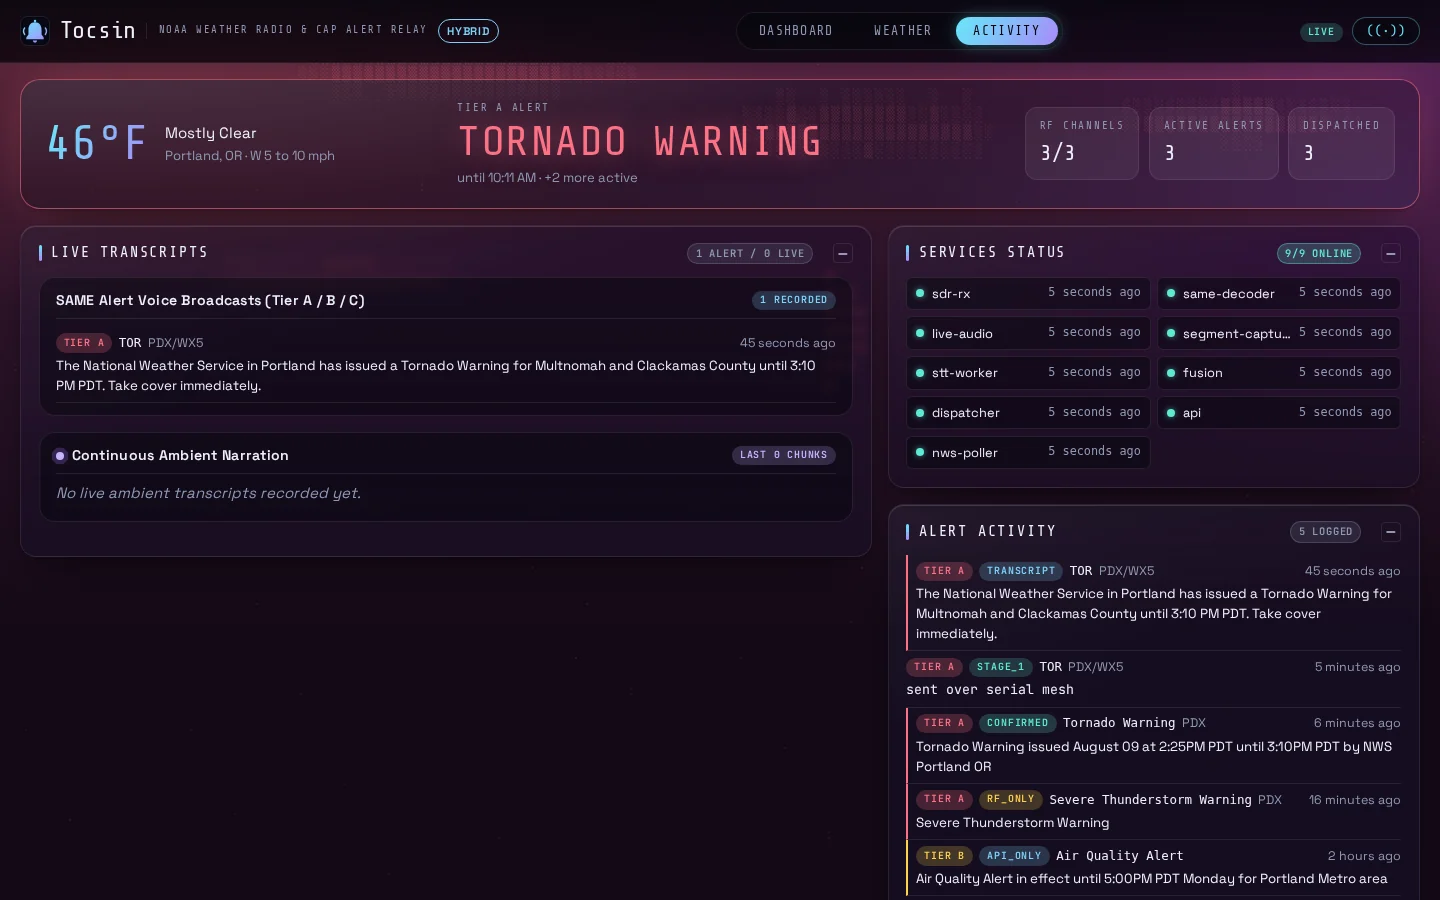
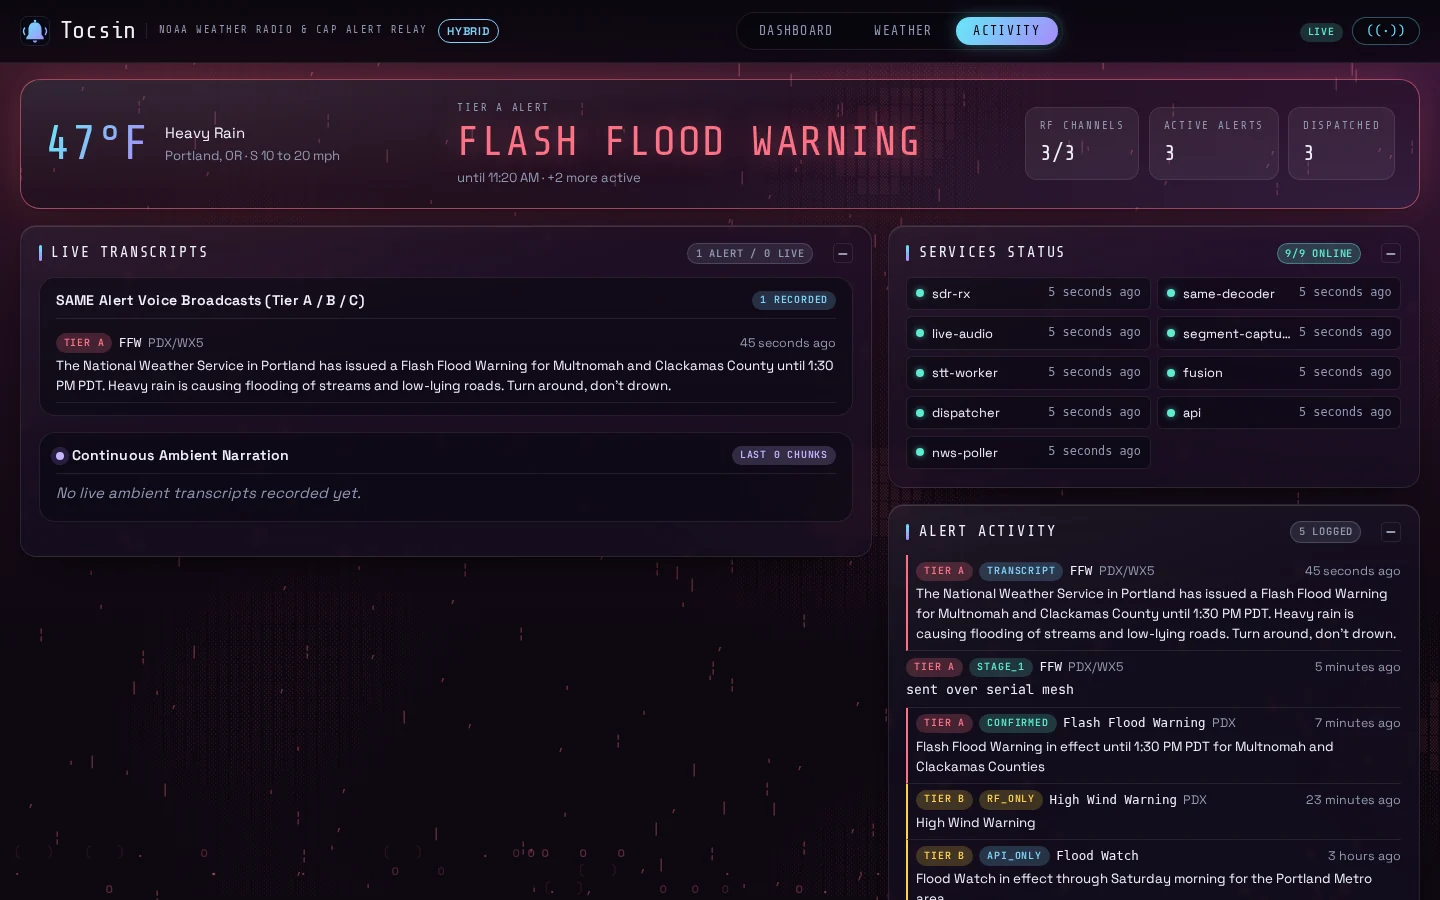
docs: redo README screenshots around an Oregon-realistic storm
The mock now serves an atmospheric-river scenario (flash flood warning, high
wind warning, flood watch, rainy forecast) instead of a tornado warning, and
the Weather tab is shown in full now that its air and fire cards use real
data. Live prod data is deliberately not used: the README is public.

Claude-Session: https://claude.ai/code/session_019KfRRJSHAHRBw7FtywS5g6

diff --git a/web/mock-plugin.ts b/web/mock-plugin.ts
@@ -143,6 +143,8 @@ export function mockApiPlugin(): Plugin {
               TOR: { name: "Tornado Warning", tier: "A" },
               SVR: { name: "Severe Thunderstorm Warning", tier: "A" },
               FFW: { name: "Flash Flood Warning", tier: "A" },
+              HWW: { name: "High Wind Warning", tier: "B" },
+              FLA: { name: "Flood Watch", tier: "B" },
               AQA: { name: "Air Quality Alert", tier: "B" },
               RWT: { name: "Required Weekly Test", tier: "C" },
             },
@@ -232,112 +234,115 @@ export function mockApiPlugin(): Plugin {
         }
 
         if (reqPath.startsWith("/alerts")) {
+          // An atmospheric-river storm: a scenario that actually happens in the Pacific Northwest.
+          const minutesAgo = (m: number) => new Date(Date.now() - m * 60 * 1000).toISOString();
+          const minutesAhead = (m: number) => new Date(Date.now() + m * 60 * 1000).toISOString();
           const mockAlerts = [
             {
-              id: "urn:oid:2.49.0.1.840.0.mock.tor.001",
+              id: "urn:oid:2.49.0.1.840.0.mock.ffw.001",
               state: "CONFIRMED",
               confidence: 1.0,
-              event_name: "Tornado Warning",
+              event_name: "Flash Flood Warning",
               fips_codes: ["041051", "041005"],
-              first_seen: new Date(Date.now() - 5 * 60 * 1000).toISOString(),
-              last_updated: new Date(Date.now() - 4 * 60 * 1000).toISOString(),
+              first_seen: minutesAgo(6),
+              last_updated: minutesAgo(5),
               sources: [
                 {
                   kind: "RF",
                   event: {
                     site: "PDX",
                     channel: "WX5",
-                    received_at: new Date(Date.now() - 5 * 60 * 1000).toISOString(),
-                    event_code: "TOR",
-                    event_name: "Tornado Warning",
+                    received_at: minutesAgo(6),
+                    event_code: "FFW",
+                    event_name: "Flash Flood Warning",
                     tier: "A",
                     fips_codes: ["041051", "041005"],
                     originator: "WXR",
                     callsign: "KIG98",
-                    purge_minutes: 45,
-                    raw_header: "ZCZC-WXR-TOR-041051-041005+0045-2212130-KIG98/NWR-",
+                    purge_minutes: 90,
+                    raw_header: "ZCZC-WXR-FFW-041051-041005+0130-2891025-KIG98/NWR-",
                   },
                 },
                 {
                   kind: "API",
                   alert: {
-                    id: "urn:oid:2.49.0.1.840.0.mock.tor.001",
-                    event: "Tornado Warning",
-                    headline: "Tornado Warning issued August 09 at 2:25PM PDT until 3:10PM PDT by NWS Portland OR",
+                    id: "urn:oid:2.49.0.1.840.0.mock.ffw.001",
+                    event: "Flash Flood Warning",
+                    headline: "Flash Flood Warning in effect until 1:30 PM PDT for Multnomah and Clackamas Counties",
                     status: "Actual",
                     message_type: "Alert",
                     category: "Met",
-                    severity: "Extreme",
-                    certainty: "Observed",
+                    severity: "Severe",
+                    certainty: "Likely",
                     urgency: "Immediate",
                     area_desc: "Multnomah, OR; Clackamas, OR",
-                    sent: new Date(Date.now() - 5 * 60 * 1000).toISOString(),
-                    effective: new Date(Date.now() - 5 * 60 * 1000).toISOString(),
-                    onset: new Date(Date.now() - 5 * 60 * 1000).toISOString(),
-                    expires: new Date(Date.now() + 40 * 60 * 1000).toISOString(),
-                    ends: new Date(Date.now() + 40 * 60 * 1000).toISOString(),
+                    sent: minutesAgo(6),
+                    effective: minutesAgo(6),
+                    onset: minutesAgo(6),
+                    expires: minutesAhead(84),
+                    ends: minutesAhead(84),
                     same_codes: ["041051", "041005"],
-                    ugc_codes: ["ORZ006"],
-                    vtec: "/O.NEW.KPQR.TO.W.0012.260809T2125Z-260809T2210Z/",
+                    ugc_codes: ["ORC005"],
+                    vtec: "/O.NEW.KPQR.FF.W.0007.261016T1725Z-261016T2030Z/",
                   },
                 },
               ],
             },
             {
-              id: "urn:oid:2.49.0.1.840.0.mock.svr.002",
+              id: "urn:oid:2.49.0.1.840.0.mock.hww.002",
               state: "RF_ONLY",
               confidence: 0.85,
-              event_name: "Severe Thunderstorm Warning",
-              fips_codes: ["041051"],
-              first_seen: new Date(Date.now() - 15 * 60 * 1000).toISOString(),
-              last_updated: new Date(Date.now() - 15 * 60 * 1000).toISOString(),
+              event_name: "High Wind Warning",
+              fips_codes: ["041067"],
+              first_seen: minutesAgo(22),
+              last_updated: minutesAgo(22),
               sources: [
                 {
                   kind: "RF",
                   event: {
                     site: "PDX",
                     channel: "WX5",
-                    received_at: new Date(Date.now() - 15 * 60 * 1000).toISOString(),
-                    event_code: "SVR",
-                    event_name: "Severe Thunderstorm Warning",
-                    tier: "A",
-                    fips_codes: ["041051"],
+                    received_at: minutesAgo(22),
+                    event_code: "HWW",
+                    event_name: "High Wind Warning",
+                    tier: "B",
+                    fips_codes: ["041067"],
                     originator: "WXR",
                     callsign: "KIG98",
-                    purge_minutes: 60,
-                    raw_header: "ZCZC-WXR-SVR-041051+0100-2212115-KIG98/NWR-",
+                    purge_minutes: 120,
+                    raw_header: "ZCZC-WXR-HWW-041067+0200-2891008-KIG98/NWR-",
                   },
                 },
               ],
             },
             {
-              id: "urn:oid:2.49.0.1.840.0.mock.aqa.003",
+              id: "urn:oid:2.49.0.1.840.0.mock.fla.003",
               state: "API_ONLY",
               confidence: 0.7,
-              event_name: "Air Quality Alert",
-              fips_codes: ["041051", "041005"],
-              first_seen: new Date(Date.now() - 2 * 3600 * 1000).toISOString(),
-              last_updated: new Date(Date.now() - 2 * 3600 * 1000).toISOString(),
+              event_name: "Flood Watch",
+              fips_codes: ["041051", "041005", "041067"],
+              first_seen: minutesAgo(180),
+              last_updated: minutesAgo(180),
               sources: [
                 {
                   kind: "API",
                   alert: {
-                    id: "urn:oid:2.49.0.1.840.0.mock.aqa.003",
-                    event: "Air Quality Alert",
-                    headline: "Air Quality Alert in effect until 5:00PM PDT Monday for Portland Metro area",
+                    id: "urn:oid:2.49.0.1.840.0.mock.fla.003",
+                    event: "Flood Watch",
+                    headline: "Flood Watch in effect through Saturday morning for the Portland Metro area",
                     status: "Actual",
                     message_type: "Alert",
-                    category: "Env",
+                    category: "Met",
                     severity: "Moderate",
-                    certainty: "Unknown",
-                    urgency: "Unknown",
-                    area_desc: "Multnomah, OR; Clackamas, OR",
-                    sent: new Date(Date.now() - 2 * 3600 * 1000).toISOString(),
-                    effective: new Date(Date.now() - 2 * 3600 * 1000).toISOString(),
-                    onset: new Date(Date.now() - 2 * 3600 * 1000).toISOString(),
-                    expires: new Date(Date.now() + 24 * 3600 * 1000).toISOString(),
-                    ends: new Date(Date.now() + 24 * 3600 * 1000).toISOString(),
-                    same_codes: ["041051", "041005"],
+                    certainty: "Possible",
+                    urgency: "Future",
+                    area_desc: "Multnomah, OR; Clackamas, OR; Washington, OR",
+                    sent: minutesAgo(180),
+                    effective: minutesAgo(180),
+                    onset: minutesAgo(180),
+                    expires: minutesAhead(26 * 60),
+                    ends: minutesAhead(26 * 60),
+                    same_codes: ["041051", "041005", "041067"],
                     ugc_codes: ["ORZ006"],
                     vtec: null,
                   },
@@ -351,17 +356,17 @@ export function mockApiPlugin(): Plugin {
         if (reqPath.startsWith("/transcripts")) {
           return res.end(JSON.stringify([
             {
-              raw_header: "ZCZC-WXR-TOR-041051-041005+0045-2212130-KIG98/NWR-",
+              raw_header: "ZCZC-WXR-FFW-041051-041005+0130-2891025-KIG98/NWR-",
               timestamp_ns: Date.now() * 1_000_000,
               site: "PDX",
               channel: "WX5",
-              event_code: "TOR",
+              event_code: "FFW",
               tier: "A",
               fips_codes: ["041051", "041005"],
-              text: "The National Weather Service in Portland has issued a Tornado Warning for Multnomah and Clackamas County until 3:10 PM PDT. Take cover immediately.",
+              text: "The National Weather Service in Portland has issued a Flash Flood Warning for Multnomah and Clackamas County until 1:30 PM PDT. Heavy rain is causing flooding of streams and low-lying roads. Turn around, don't drown.",
               passed_guard: true,
               guard_reason: null,
-              wav_path: "mock_capture_tor.wav",
+              wav_path: "mock_capture_ffw.wav",
             },
           ]));
         }
@@ -371,13 +376,13 @@ export function mockApiPlugin(): Plugin {
             {
               dispatched_at: new Date(Date.now() - 4 * 60 * 1000).toISOString(),
               stage: "stage_1",
-              alert_id: "urn:oid:2.49.0.1.840.0.mock.tor.001",
+              alert_id: "urn:oid:2.49.0.1.840.0.mock.ffw.001",
               site: "PDX",
               channel: "WX5",
-              event_code: "TOR",
+              event_code: "FFW",
               tier: "A",
               fips_codes: ["041051", "041005"],
-              raw_header: "ZCZC-WXR-TOR-041051-041005+0045-2212130-KIG98/NWR-",
+              raw_header: "ZCZC-WXR-FFW-041051-041005+0130-2891025-KIG98/NWR-",
               sent: true,
               reason: "sent over serial mesh",
             },

diff --git a/docs/design/tracking.md b/docs/design/tracking.md
@@ -2885,3 +2885,9 @@ verified). Phase 2's real-SAME-decode gap (the last thing this note used to flag
   Extreme Fire Danger products, no longer for air quality or smoke alerts. With no observation,
   both cards show "No data" instead of substituting 50% RH / 70F / 5 mph. Logic is in
   `web/src/weather_risk.ts` with tests; 92 lines of dead `.aqi-*` CSS removed.
+- README screenshots redone around a scenario that happens in Oregon: the dev mock
+  (`web/mock-plugin.ts`) now serves an atmospheric-river storm (Flash Flood Warning confirmed on
+  both paths, a High Wind Warning heard only on RF, a Flood Watch only from the API) and a rainy
+  synthetic forecast, in place of a tornado warning. With the air/fire cards now showing real
+  data the Weather tab is shown in full. Live prod data was not used because the README is
+  public and it would show the station's approximate location.

diff --git a/README.md b/README.md
@@ -54,11 +54,11 @@ and a REST + SSE feed over the same data. Details are in `docs/design/master-pro
 
 ## Screenshots
 
-The images below use the dev server's bundled mock data (a made-up tornado warning and a
-synthetic forecast for Portland, OR), not a live station.
+The images below use the dev server's bundled mock data (a made-up atmospheric-river storm
+with a flash flood warning, and a synthetic forecast for Portland, OR), not a live station.
 
 <p align="center">
-  <img src="docs/screenshots/weather.webp" alt="Weather tab: surface observations, 24-hour meteogram and 7-day outlook" width="100%">
+  <img src="docs/screenshots/weather.webp" alt="Weather tab: surface observations, 24-hour meteogram, 7-day outlook, fire weather, sun and moon, and air quality alerts" width="100%">
 </p>
 
 <p align="center">
